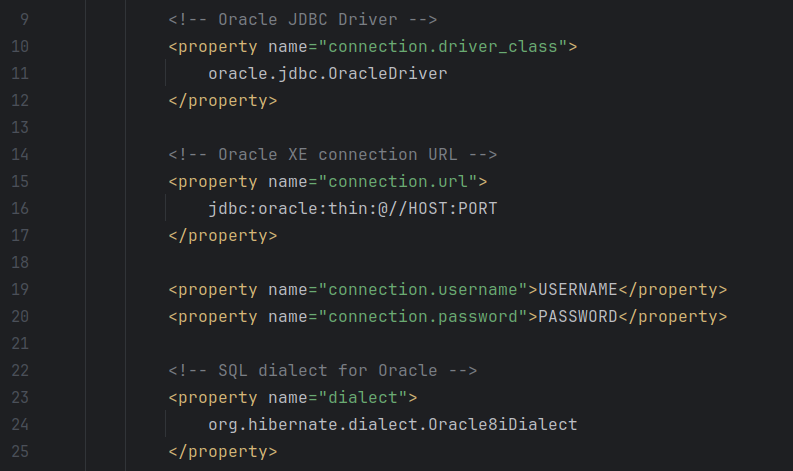
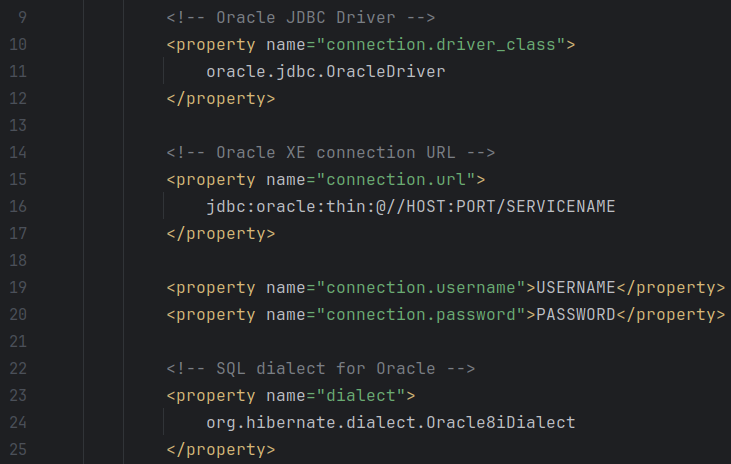
adding service name for hibernate configuration

diff --git a/README.md b/README.md
@@ -36,7 +36,7 @@
 
 #### a) Verify your JDK version (must be 8 through 21)
 
-Check your version by opening a terminal (Linux/macOS) or Command Prompt (Windows) and running:
+Check your version by opening a terminal (Linux) or Command Prompt (Windows) and running:
 
 ````
 java --version
@@ -59,7 +59,7 @@ OpenJDK 64-Bit Server VM Temurin-21.0.10+7 (build 21.0.10+7-LTS, mixed mode, sha
 This confirms you are running OpenJDK 21.
 
 - If your JDK is **22 or later**, you must install JDK 21 or lower (JDK 17 is recommended).
-  - **Windows / macOS:** Download from [Oracle Java SE Development Kit 17.0.12](https://www.oracle.com/java/technologies/javase/jdk17-archive-downloads.html) and install it.
+  - **Windows:** Download from [Oracle Java SE Development Kit 17.0.12](https://www.oracle.com/java/technologies/javase/jdk17-archive-downloads.html) and install it.
   - **Linux (Ubuntu/Debian):** Run `sudo apt install openjdk-17-jdk -y` in the terminal.
 
 #### b) Verify that IntelliJ IDEA supports Maven projects
@@ -70,13 +70,13 @@ Go to `File → New → Project → Build System` and confirm that **Maven** app
 
 
 ---
-> - If you installed Oracle via Docker (for All OSes), follow step **(c)** below and skip step **(d)**.
+> - If you installed Oracle via Docker (for **Linux**/**Windows**), follow step **(c)** below and skip step **(d)**.
 > - If you installed Oracle directly on your device (via `.exe` or `.msi`) (for **Windows** only), follow step **(d)** and skip step **(c)**.
 ---
 
-#### c) Start your Oracle Docker container and note the host and port (Linux / macOS / Windows)
+#### c) Start your Oracle Docker container and note the host and port (Linux / Windows)
 
-**On Linux / macOS:**
+**On Linux**
 
 After starting your Oracle container, run:
 
@@ -130,7 +130,7 @@ then Oracle Database is installed.
 ![Step_1_Photo_a.png](readme-photos/Step_1_Photo_a.png)
 
 then you need to install **Oracle Database 21c (XE)** from this link: [Oracle Database 21c Express Edition (XE)](https://download.oracle.com/otn-pub/otn_software/db-express/OracleXE213_Win64.zip)
-> **Note:** You must create a new user after installing Oracle Database via `SQL*Plus`. This is your own responsibility.
+> **Note:** You must create a new user after installing Oracle Database via `SQL*Plus`. follow this GitHub Repository ![Oracle/SQL Setup Guide](https://github.com/areda04/cs307-oracle-sql-setup-guide).
 
 After confirming that Oracle Database is installed on your device, retrieve the host and port as follows.
 
@@ -174,7 +174,7 @@ Note your username and password from the connection details.
 
 In this example: **username** = `hr`, **password** = `hr`.
 
-> **Note:** If you have forgotten your password, you must create a new user via `SQL*Plus`. This is your own responsibility.
+> **Note:** If you have forgotten your password, you must create a new user via `SQL*Plus`. follow this GitHub Repository ![Oracle/SQL Setup Guide](https://github.com/areda04/cs307-oracle-sql-setup-guide).
 
 #### f) Check that the schema you added is what is in **[hr_schema.txt](DBSchema/hr_schema.txt)**
 
@@ -195,7 +195,21 @@ To add this schema, paste the content of our schema into SQL Developer, then pre
 
 ![Step_1_Photo_9.png](readme-photos/Step_1_Photo_9.png)
 
-> **Note:** If the Script Output prints errors on your screen, you may need to edit your user's credentials via `SQL*Plus`. This is your own responsibility.
+> **Note:** If the Script Output prints errors on your screen, you may need to edit your user's credentials via `SQL*Plus`. follow this GitHub Repository ![Oracle/SQL Setup Guide](https://github.com/areda04/cs307-oracle-sql-setup-guide).
+
+#### g) Edit the service name of your Oracle Database user's connection to 'XEPDB1'
+
+After starting your Oracle Database (i.e. reaching to `SQL>`), run:
+
+````
+ALTER SESSION SET CONTAINER = XEPDB1;
+````
+
+if it outputs this:
+````
+SESSION ALTERED
+````
+so you can go to step 2.
 
 ---
 
@@ -262,15 +276,19 @@ Maven will automatically manage all Hibernate dependencies.
 
 Using the values obtained from **Step 1**:
 
-| Placeholder | Example value |
-|-------------|---------------|
-| `HOST`      | `localhost`   |
-| `PORT`      | `1521`        |
-| `USERNAME`  | `hr`          |
-| `PASSWORD`  | `hr`          |
+| Placeholder   | Example value |
+|---------------|---------------|
+| `HOST`        | `localhost`   |
+| `PORT`        | `1521`        |
+| `USERNAME`    | `hr`          |
+| `PASSWORD`    | `hr`          |
+| `SERVICENAME` | `XEPDB1`      |
 
 Make the following replacements:
-1. In `<property name="connection.url">` (**Line 16**), replace `HOST` with your host and `PORT` with your port.
+1. In `<property name="connection.url">` (**Line 16**),
+   - replace `HOST` with your host
+   - `PORT` with your port
+   - `SERVICENAME` with your service name (`XEPDB1` is default unless you changed it in `SQL*Plus`).
 2. In `<property name="connection.username">` (**Line 19**), replace `USERNAME` with your username.
 3. In `<property name="connection.password">` (**Line 20**), replace `PASSWORD` with your password.
 
@@ -347,7 +365,7 @@ Process finished with exit code 0
 ````
 
 - **Exit code 0** — setup is complete; Hibernate is working correctly. ✅
-- **Exit code 1** — an error occurred. Double-check your `username`, `password`, `port`, and `host` values in `hibernate.cfg.xml`. ❌
+- **Exit code 1** — an error occurred. Double-check your `username`, `password`, `port`, `host` and `servicename` values in `hibernate.cfg.xml`. ❌
 
 ---
 
